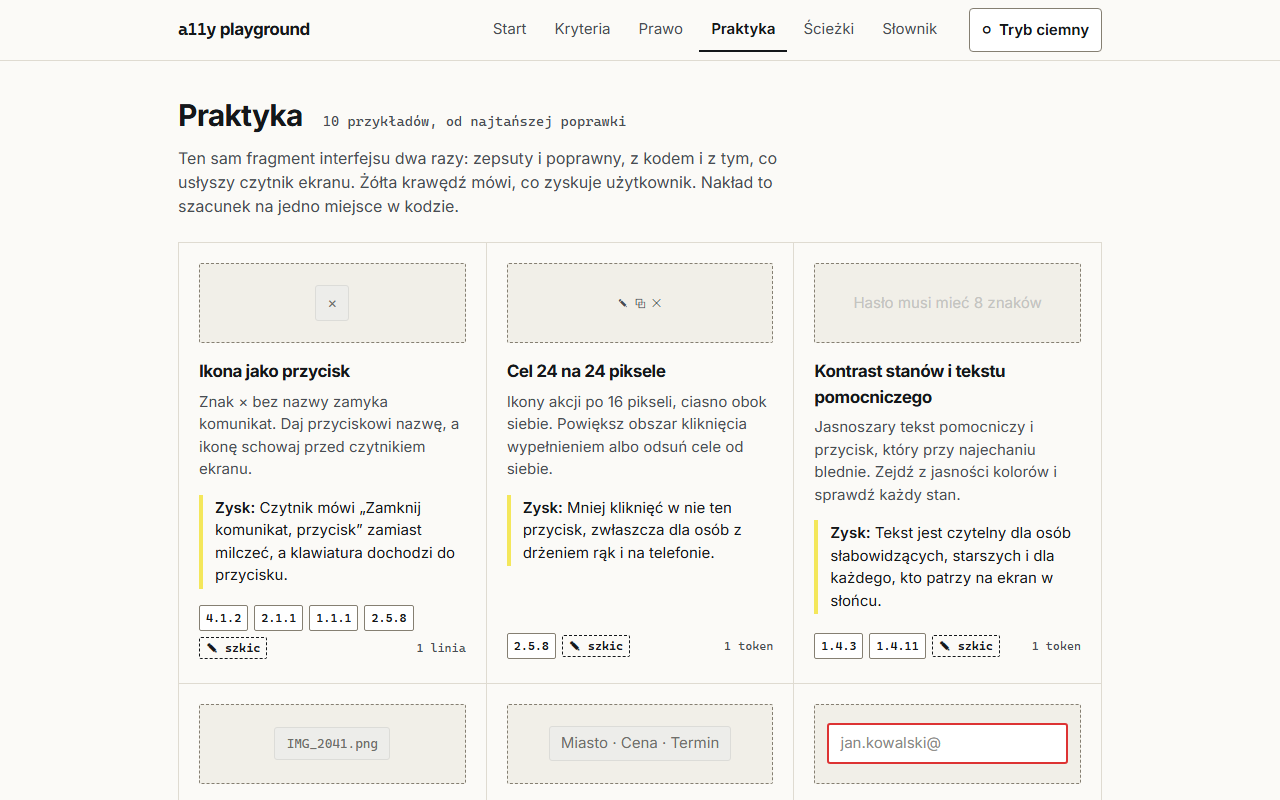
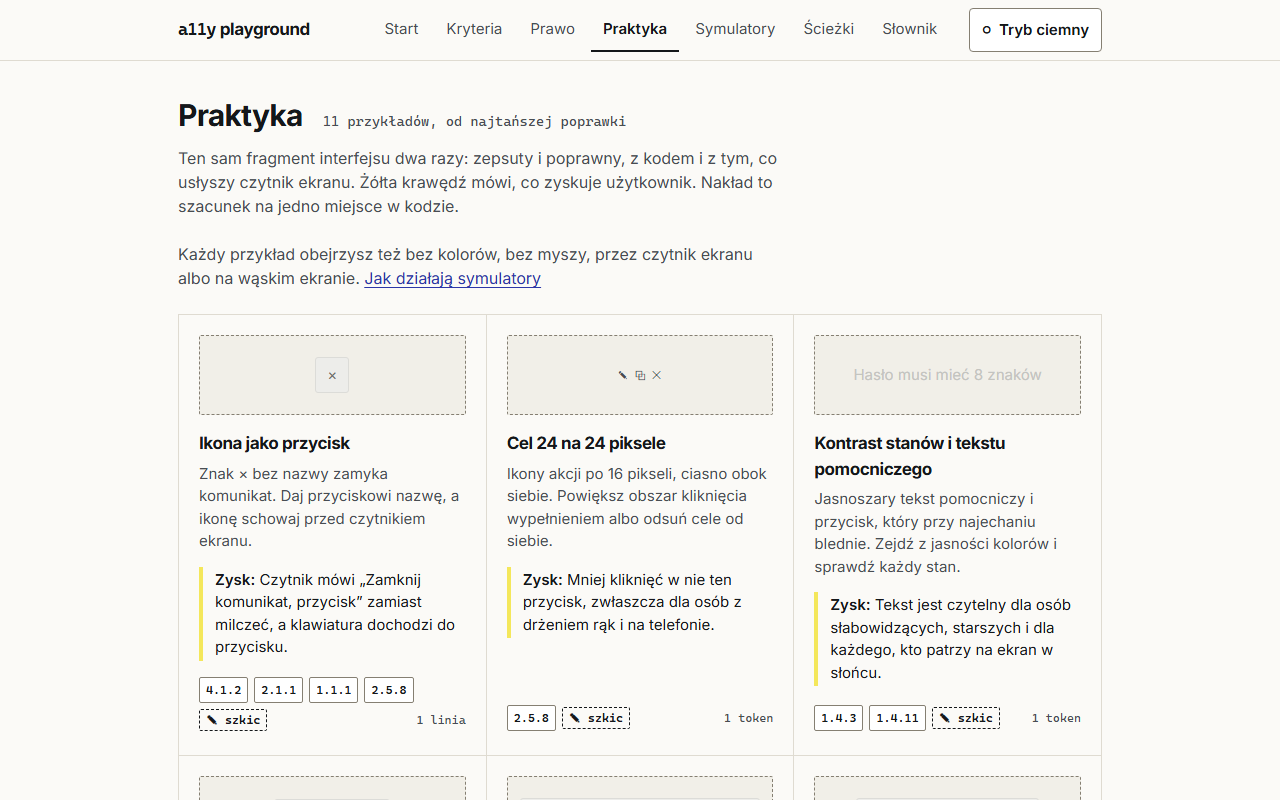
docs: update README for phase 7

diff --git a/README.md b/README.md
@@ -19,7 +19,7 @@ a11y playground is a learning app for people who build digital products in Polan
 The interface is in Polish. This README is in English.
 
 > [!NOTE]
-> The project is in phase 6 (paths and quizzes). Every A and AA criterion of WCAG 2.2 has a plain-language explanation, ten common faults have a broken and a fixed example side by side, three Polish acts are in the app with the statute text and our summaries, and five learning paths walk through them lesson by lesson. All content is marked as a draft until a person has checked it. Phase 5 (accounts) is postponed, so progress is kept in the browser.
+> The project is in phase 7 (impairment simulators). Every A and AA criterion of WCAG 2.2 has a plain-language explanation, eleven common faults have a broken and a fixed example, and each example can be viewed through five simulators. Three Polish acts are in the app with the statute text and our summaries, and five learning paths walk through them lesson by lesson. All content is marked as a draft until a person has checked it. Phase 5 (accounts) is postponed, so progress is kept in the browser.
 
 ### What works today
 
@@ -33,7 +33,9 @@ The interface is in Polish. This README is in English.
 - **Normative text** in Polish from the authorized W3C translation of WCAG 2.1, collapsed on each criterion page. The criteria new in 2.2 link to their sources until a licensed Polish text is available.
 - **Glossary** (`/slownik`) of about 30 terms, alphabetical, each with a plain explanation and, where WCAG defines the term, its normative wording. The first use of a term in a criterion links to it, with a small button that opens a short definition.
 - **Search** (`/szukaj`, also on the home page) over criteria, examples, provisions, lessons and the glossary. It finds criteria by number, name or symptom ("modal", "placeholder"), articles by topic ("deklaracja dostępności"), and ignores Polish diacritics.
-- **Practice** (`/praktyka`): ten examples as cards ordered by the cost of the fix, each with what the user gains. An example page (`/praktyka/ikona-jako-przycisk`) shows the broken and the fixed variant side by side, each running in a sandboxed iframe, with its code and what a screen reader says. Examples that move start only when the reader asks. Criterion pages link to their examples.
+- **Practice** (`/praktyka`): eleven examples as cards ordered by the cost of the fix, each with what the user gains. An example page (`/praktyka/ikona-jako-przycisk`) shows the broken and the fixed variant one above the other, each running in a sandboxed iframe, with its code and what a screen reader says. Examples that move start only when the reader asks. Criterion pages link to their examples.
+- **Simulators** on every example page: a list beside the frames switches both variants to colour vision deficiency (four types), low vision, keyboard only, screen reader, 320 pixels wide or text at 200%. The choice lives in `?symulacja=`, and none is on by default. Each one puts text next to the frames, so no simulator is the only way to get the information: what the simulation shows and what it does not, the numbered focus steps and blocked mouse clicks, a table of what a screen reader reads in both variants (computed at build time), or whether the content fits in 320 pixels, measured in the frame.
+- **Simulators page** (`/symulatory`): what each simulator shows, its limits, the criteria it teaches, and links into the examples with the simulation already picked.
 - **Law** (`/prawo`): the 2019 digital accessibility act in full, the parts of the 2019 special needs act and the 2024 products and services act (the Polish EAA) that create digital obligations, and a page on EN 301 549. An article page (`/prawo/ustawa-2019-848/art-5`) shows each ustęp next to our summary. Every act says which consolidated text it comes from, when it was downloaded, and whether it was amended after that text.
 - **What applies to me** (`/mapowanie`): pick a website or app of a public body, or a product or service of a company, and every deadline appears on one timeline, with the ones for your situation highlighted and the criteria behind them in a table.
 - **Law on criterion pages:** the "Prawo" section says, for each situation, whether a provision requires the criterion, which one, and since when, or why nothing does (AAA, new in 2.2, excluded for apps).
@@ -51,7 +53,11 @@ The interface is in Polish. This README is in English.
 
 | Practice | Example page |
 | --- | --- |
-| ![Practice catalogue with cards ordered by the cost of the fix](docs/screenshots/practice.png) | ![Example page with the broken and the fixed variant side by side](docs/screenshots/example-page.png) |
+| ![Practice catalogue with cards ordered by the cost of the fix](docs/screenshots/practice.png) | ![Example page with the simulator list beside the broken and the fixed variant](docs/screenshots/example-page.png) |
+
+| Colour vision | Screen reader | Simulators |
+| --- | --- | --- |
+| ![The form example through deuteranopia after a wrong address: the broken field's red border turns olive, the fixed one still says Błąd](docs/screenshots/simulation-colour.png) | ![Table of what a screen reader reads in both variants, differing rows marked](docs/screenshots/simulation-reader.png) | ![The simulators page with a card per simulator](docs/screenshots/simulators.png) |
 
 | Article page | What applies to me | Law on a criterion page |
 | --- | --- | --- |
@@ -170,6 +176,7 @@ Komunikat „Zapisano zmiany” z przyciskiem zamykania w rogu.
 - `effort` is one of `1 linia`, `1 token`, `2 minuty`, `15 minut`, `refaktor`. The catalogue and the home page sort by it.
 - `preview` is a small static picture of the fault for the card, built from the `p-*` classes in `src/styles.css`. It is decorative and hidden from screen readers, so `summary` and `gain` must carry the meaning.
 - `motion: true` makes both variants load only after "Uruchom przykład".
+- `simulations` optionally maps a simulation id (`deuteranopia`, `klawiatura`, `320px`...) to a note on what it shows on this example. Without a note the page shows the simulator's general description.
 - `bad.axe` lists the axe rules the broken fragment must trigger. Leave it empty when axe cannot see the fault. The tests fail if the fragment does not trigger them.
 - The HTML files are fragments with optional `<style>` and `<script>`. The page shows them as the code, and `/demo/<slug>/bad` and `/demo/<slug>/good` serve them as documents for the sandboxed iframes.
 
@@ -180,6 +187,26 @@ A broken example is broken on purpose, but it runs inside our page. It must neve
 - load anything from the network or navigate away.
 
 The tests check that every fixed fragment passes axe, that every page passes axe with the broken iframe excluded, and that nothing from a broken fragment reaches the page's own document.
+
+### Simulators
+
+The simulation ids are code, in `src/content/simulations.ts`. What each kind of simulator shows is content, one file per kind in `content/symulatory/<kind>.md` (`barwy`, `slabe-widzenie`, `klawiatura`, `czytnik`, `waski-ekran`):
+
+```markdown
+---
+title: Widzenie barw
+summary: Kiedy kolor jest jedyną informacją, część osób tej informacji nie dostaje.
+criteria: ["1.4.1", "1.4.11"]
+examples: [formularz-z-bledami, kontrast-stanow]
+limits: Nie pokazuje słabszych odmian zaburzeń.
+status: szkic
+---
+Opis ogólny, pokazywany przy przykładach bez własnej notatki.
+```
+
+- `examples` become the "Wypróbuj na" links on `/symulatory`.
+- `limits` is shown as "Czego to nie pokazuje" next to every simulation of that kind.
+- The screen reader list is computed by a Vite plugin (`src/content/reading-order.vite.ts`) with jsdom and `dom-accessibility-api`, for each fragment after its script has run. A role without a Polish name fails `pnpm test`.
 
 ### Acts
 
@@ -321,6 +348,7 @@ content/
   praktyka/      one folder per example: index.md, bad.html, good.html
   prawo/         one Markdown file per act: summaries and deadlines
   sciezki/       one folder per learning path: lessons and their quizzes
+  symulatory/    one Markdown file per kind of simulator
 scripts/
   import-wcag.ts   generates src/content/wcag.gen.ts and wcag-text.gen.ts
   import-legal.ts  generates src/content/legal.gen.ts and legal-text.gen.ts
@@ -329,9 +357,9 @@ src/
   search/        search options, index builder and relevance tests
   progress/      reading progress and quiz scores in localStorage
   routes/        file-based routes (__root.tsx holds the layout)
-  components/    header, theme toggle, route announcer, badges, glossary previews, example frames and cards, the quiz
+  components/    header, theme toggle, route announcer, badges, glossary previews, example frames and cards, the simulator list, the quiz
   styles.css     Tailwind setup, colour tokens, styles for rendered Markdown
-e2e/             Playwright tests: axe, target size, keyboard, example isolation, a whole path from the keyboard
+e2e/             Playwright tests: axe, target size, keyboard, example isolation, simulators, a whole path from the keyboard
 docs/
   accessibility.md   the accessibility checklist
   design/            dated plans and mocks
@@ -349,5 +377,5 @@ The full plan, with content scope, architecture and risks, is in [`docs/design/2
 - [x] **4. Legal module.** Three Polish acts with the statute text and summaries, EN 301 549, the law-to-criterion mapping, the obligations timeline. Detailed plan: [`docs/design/2026-09-28-phase-4-legal`](docs/design/2026-09-28-phase-4-legal/phase-4-legal.en.html).
 - [ ] **5. Accounts.** Optional progress, notes and bookmarks with Convex. Postponed; phase 6 went first with progress in the browser.
 - [x] **6. Paths and quizzes.** Five learning paths, 29 lessons with quizzes, progress in `localStorage`. Detailed plan: [`docs/design/2026-09-29-phase-6-paths`](docs/design/2026-09-29-phase-6-paths/phase-6-paths.en.html).
-- [ ] **7. Impairment simulators.**
+- [x] **7. Impairment simulators.** Colour vision, low vision, keyboard only, screen reader and narrow screen on every example, each with a text alternative, and `/symulatory`. Detailed plan: [`docs/design/2026-09-29-phase-7-simulators`](docs/design/2026-09-29-phase-7-simulators/phase-7-simulators.en.html).
 - [ ] **8. AAA criteria and WCAG 3.0 tracking.**
